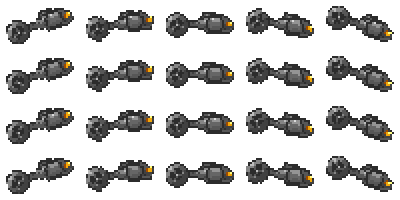
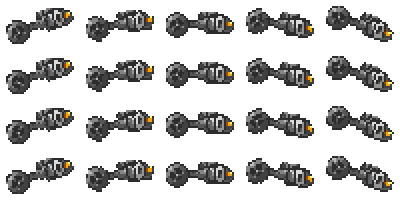
art5: drone nacelles read as ducted fans (oval intake rim, lighter cowling)
Claude-Session: https://claude.ai/code/session_01QKZziVb146pFyiSgEKZHkk

diff --git a/mechanization-mod/tools/drone_art/v5/gen_drone5.py b/mechanization-mod/tools/drone_art/v5/gen_drone5.py
@@ -12,8 +12,8 @@ from PIL import Image
 
 # pod boxes (logical px, inclusive x0,x1,y0,y1): near pod in front of the hull at its forward-middle, far pod 2 up and 3 back
 NEAR = (20, 28, 2, 9)
-FAR = (NEAR[0] - 3, NEAR[1] - 3, NEAR[2] - 2, NEAR[3] - 2)
-BANDS = ['s', 'h', 'm', 'm', 'd', 'm']
+FAR = (NEAR[0] - 4, NEAR[1] - 4, NEAR[2] - 3, NEAR[3] - 3)
+BANDS = ['s', 's', 'h', 'h', 'm', 'm']      # near pod cowling: distinctly lighter than the hull
 DARKER = {'s': 'h', 'h': 'm', 'm': 'd', 'd': 'd', 'o': 'o'}
 
 
@@ -59,7 +59,24 @@ def draw_pod(cv, x0, x1, y0, y1, k, far):
     if (gx, ty + 1) in inner: put(gx, ty + 1, 's' if k % 2 == 0 else 'h')
     ex = (xb, (ty + by) // 2)
     if ex in inner: put(ex[0], ex[1], ['m', 'd', 'h', 'd'][k])
+    draw_intake(cv, x1 - 0.9, cy, 2.3, ry + 0.1, far, mask)
     return mask
+
+
+def draw_intake(cv, cx, cy, rx, ry, far, podmask):
+    """The intake seen slightly from the front: a bright oval rim round a dark opening, outlined where it overlaps the cowling."""
+    oval = {(x, y) for y in range(cv.h) for x in range(cv.w) if ((x + .5 - cx) / rx) ** 2 + ((y + .5 - cy) / ry) ** 2 <= 1.0}
+    pal = g.GRAPHITE if far else g.GUNMETAL
+    for (x, y) in oval:
+        d = math.hypot((x + .5 - cx) / rx, (y + .5 - cy) / ry)
+        t = -((x + .5 - cx) / rx) * .6 - ((y + .5 - cy) / ry) * .8      # 1 = top-left of the rim
+        if d > 0.55:
+            c = 's' if t > 0.2 else 'h'
+            if far: c = 'h' if c == 's' else 'm'
+            cv.put(x, y, pal[c])
+        else:
+            cv.put(x, y, pal['d'] if (x + .5 > cx and y + .5 > cy) else pal['o'])
+    cv.outline(oval)
 
 
 def draw_ring_cowl(cv, cx, cy, r, far, k):
